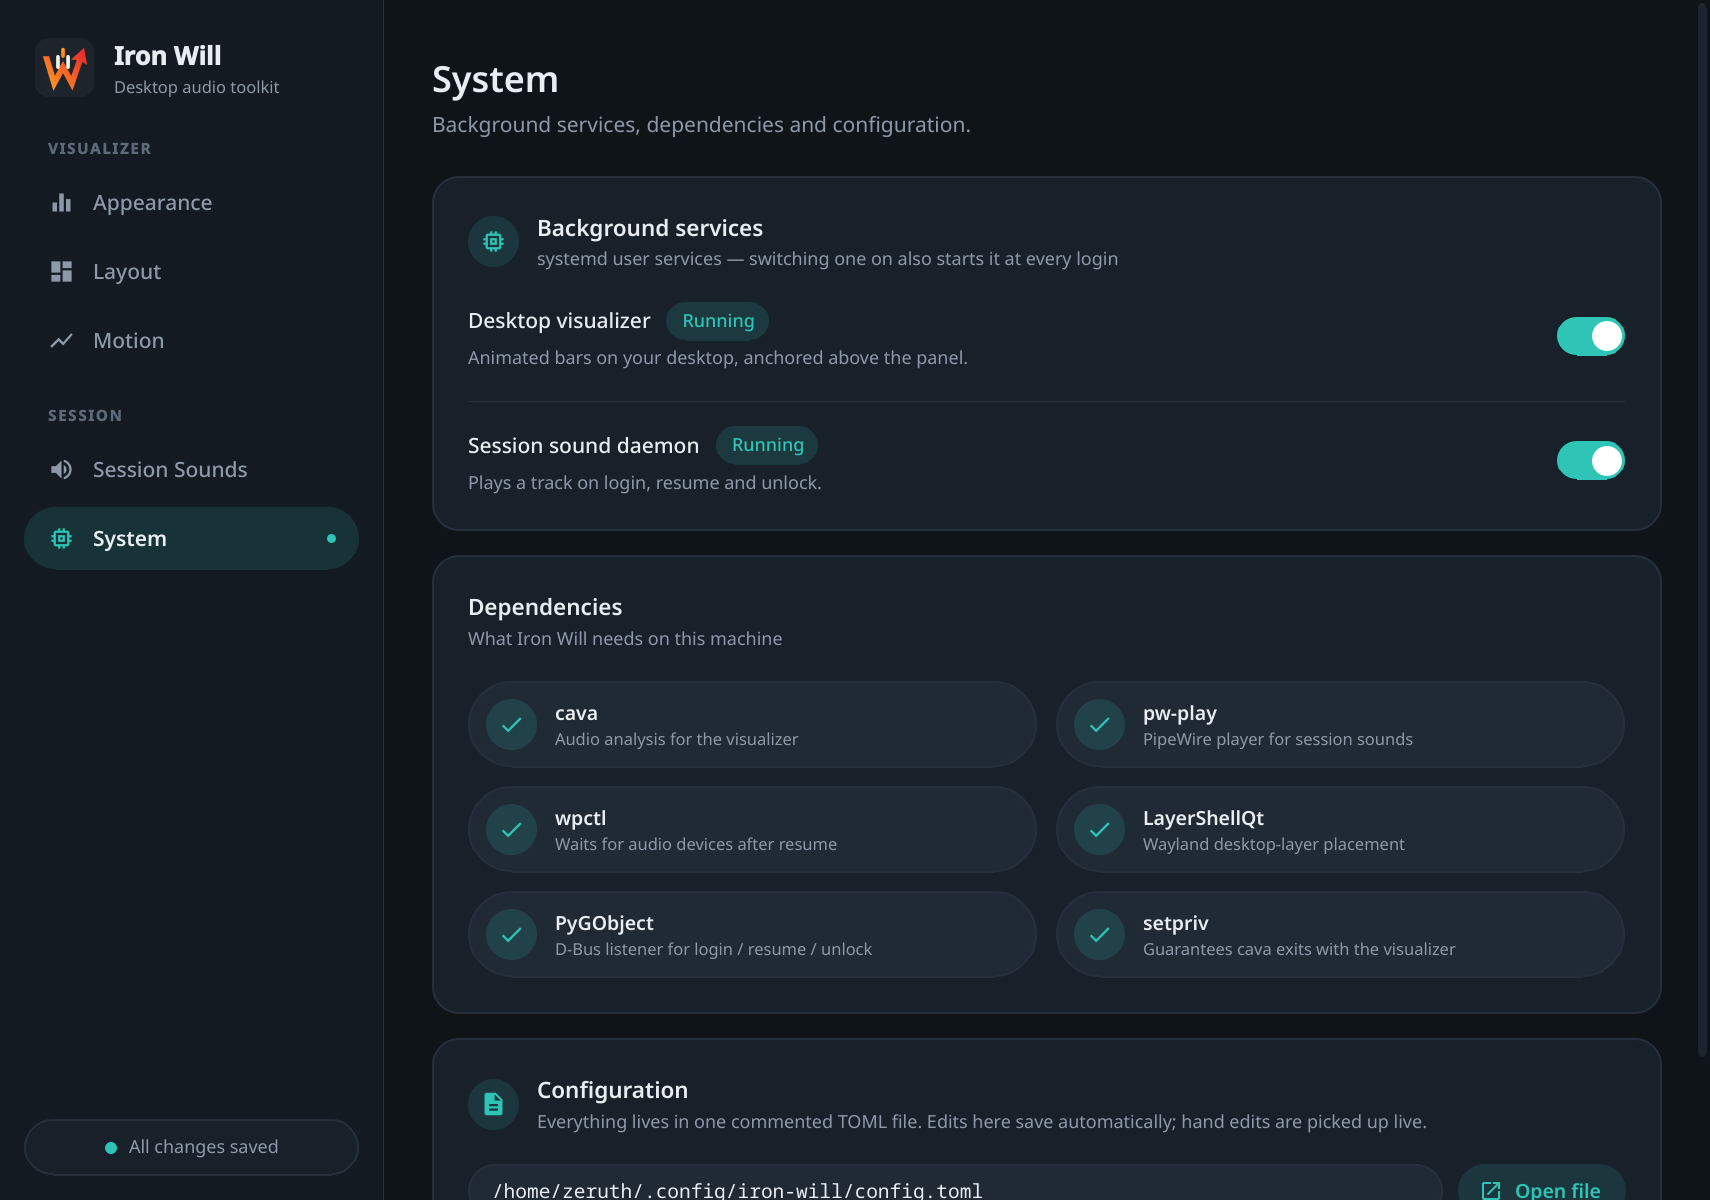
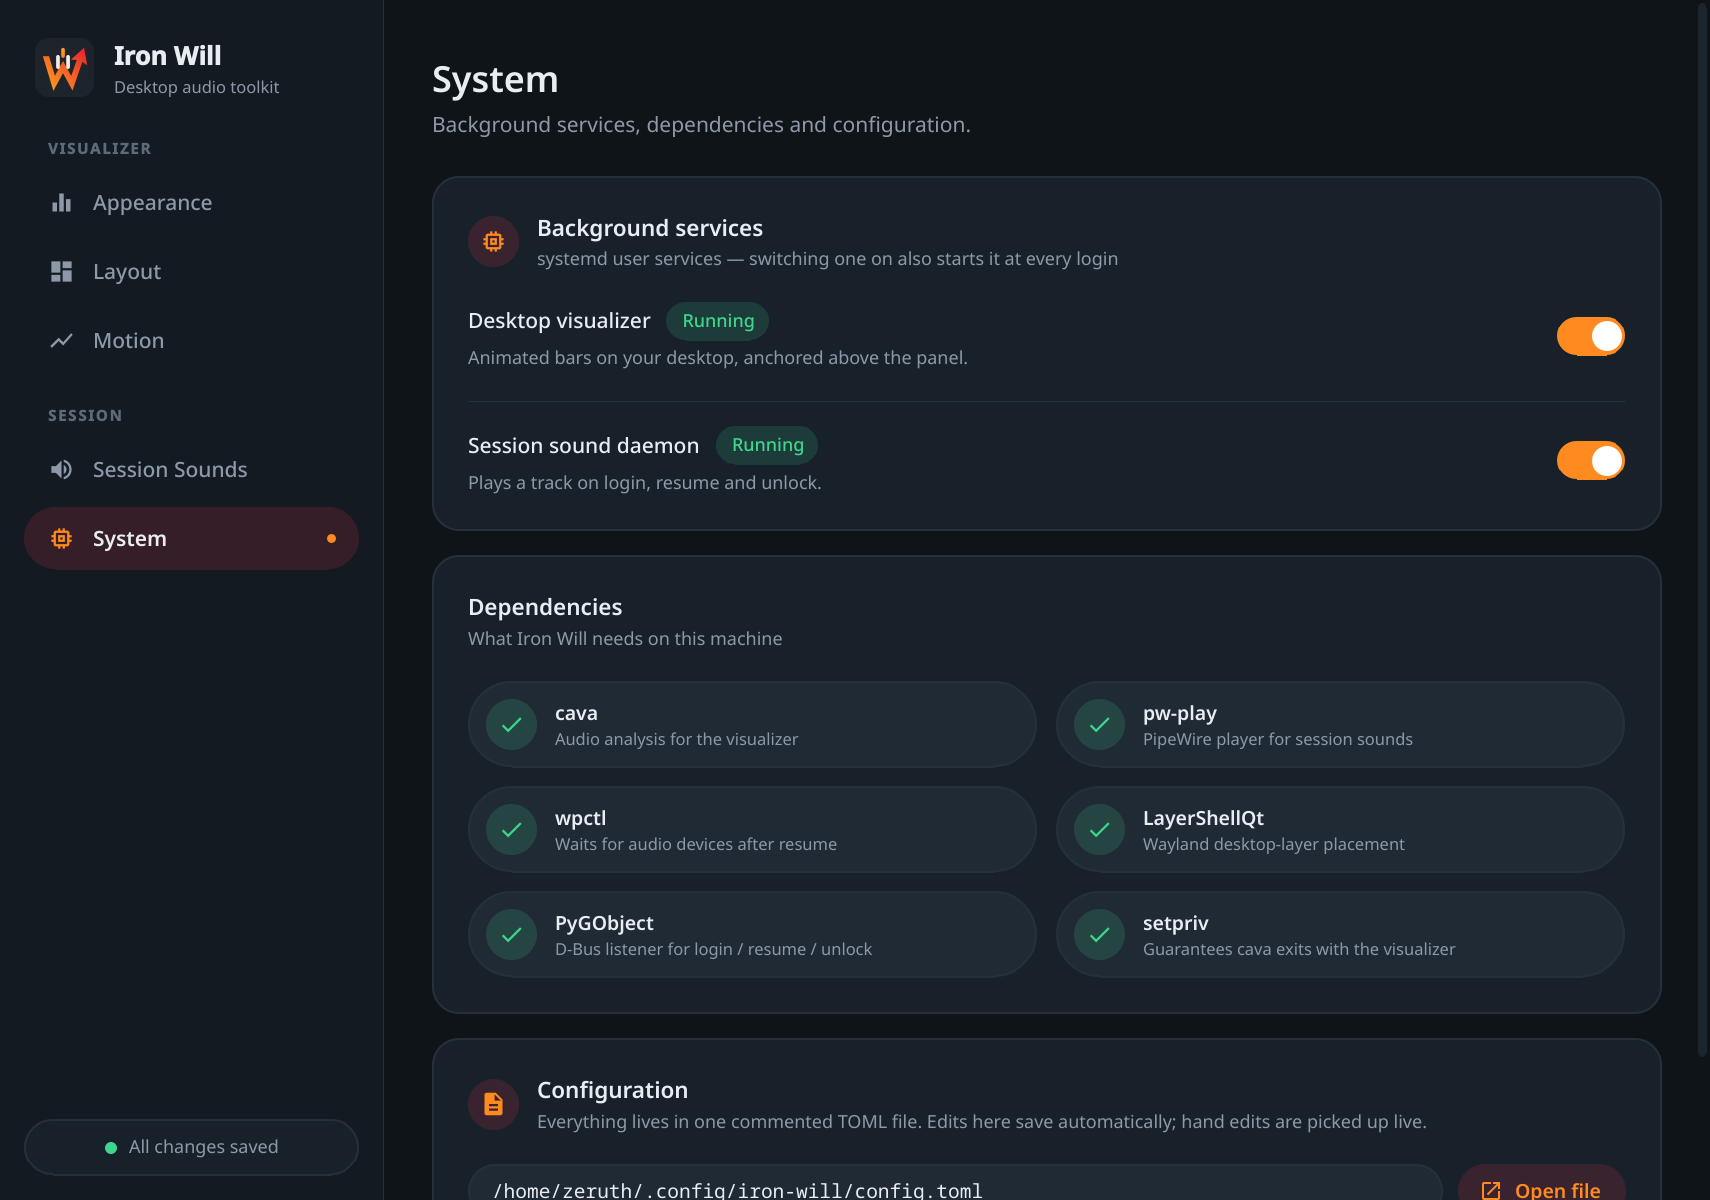
Retheme the settings app to the "Ascend" fire palette
Orange (#FF8A1F) drives the visualizer pages and crimson-rose (#FF4D63)
the session sounds, matching the new logo. Faded warm accents are
re-hued toward crimson in Theme.tint(), so pale orange over dark slate
reads as wine instead of brown. Status colors are now semantic: mint
for running/OK, crimson for failures and errors.

Also adds an "Ascend" gradient preset and fixes the Layout page's
placement preview, which collapsed to zero height because its
preferred height was bound to its own layout-assigned width. Docs
screenshots re-rendered with neutral demo track names.

diff --git a/iron_will/settings/qml/pages/LayoutPage.qml b/iron_will/settings/qml/pages/LayoutPage.qml
@@ -17,73 +17,82 @@ PageScaffold {
         subtitle: backend.screenWidth + " × " + backend.screenHeight + " primary screen · panel drawn at Plasma's default height"
         iconName: "layout"
 
-        Rectangle {
-            id: monitor
-            Layout.preferredWidth: Math.min(parent.width, 560)
-            Layout.preferredHeight: width * backend.screenHeight / backend.screenWidth
-            Layout.alignment: Qt.AlignHCenter
-            radius: Theme.radiusInner
-            color: Theme.canvas
-            border.color: Theme.border
-            clip: true
+        // The stage takes the card's full width from the layout; the monitor
+        // sizes itself from that. (Binding a Layout.preferredHeight to the
+        // item's own layout-assigned width collapses to 0 — chicken and egg.)
+        Item {
+            id: stage
+            Layout.fillWidth: true
+            Layout.preferredHeight: monitor.height
 
-            readonly property real dScale: width / backend.screenWidth
-            readonly property int dPanelH: 44
-            readonly property bool dTop: page.v("layout.anchor") === "top"
-            readonly property string dAlign: page.v("layout.align")
-            readonly property int dMx: page.v("layout.margin_x")
-            readonly property int dMy: page.v("layout.margin_y")
-            readonly property int dReserved: page.v("layout.respect_panels") && !dTop ? dPanelH : 0
-            readonly property int dVw: dAlign === "stretch" ? backend.screenWidth - 2 * dMx
-                                                            : Math.min(page.v("layout.width"), backend.screenWidth)
-            readonly property int dVh: Math.min(page.v("layout.height"), backend.screenHeight)
-            readonly property int dVx: dAlign === "left" ? dMx
-                                     : dAlign === "right" ? backend.screenWidth - dVw - dMx
-                                     : dAlign === "center" ? (backend.screenWidth - dVw) / 2 + dMx : dMx
-            readonly property int dVy: dTop ? dMy : backend.screenHeight - dReserved - dMy - dVh
+            Rectangle {
+                id: monitor
+                width: Math.min(stage.width, 560)
+                height: width * backend.screenHeight / backend.screenWidth
+                anchors.horizontalCenter: parent.horizontalCenter
+                radius: Theme.radiusInner
+                color: Theme.canvas
+                border.color: Theme.border
+                clip: true
 
-            // A couple of ghost "windows" to make the layering obvious.
-            Rectangle {
-                x: parent.width * 0.08; y: parent.height * 0.1
-                width: parent.width * 0.5; height: parent.height * 0.55
-                radius: 6; color: Theme.surfaceHi; border.color: Theme.border
-                opacity: page.v("layout.layer") === "top" ? 0.55 : 1
-                z: page.v("layout.layer") === "top" ? 1 : 3
-            }
-            Rectangle {
-                x: parent.width * 0.42; y: parent.height * 0.28
-                width: parent.width * 0.48; height: parent.height * 0.5
-                radius: 6; color: Theme.surface; border.color: Theme.border
-                opacity: page.v("layout.layer") === "top" ? 0.55 : 1
-                z: page.v("layout.layer") === "top" ? 1 : 3
-            }
-            // Panel
-            Rectangle {
-                anchors { left: parent.left; right: parent.right; bottom: parent.bottom }
-                height: monitor.dPanelH * monitor.dScale
-                color: Theme.sidebar
-                z: 4
-                Row {
-                    anchors.centerIn: parent
-                    spacing: 4
-                    Repeater { model: 5; Rectangle { width: 8; height: 8; radius: 4; color: Theme.surfaceHover } }
+                readonly property real dScale: width / backend.screenWidth
+                readonly property int dPanelH: 44
+                readonly property bool dTop: page.v("layout.anchor") === "top"
+                readonly property string dAlign: page.v("layout.align")
+                readonly property int dMx: page.v("layout.margin_x")
+                readonly property int dMy: page.v("layout.margin_y")
+                readonly property int dReserved: page.v("layout.respect_panels") && !dTop ? dPanelH : 0
+                readonly property int dVw: dAlign === "stretch" ? backend.screenWidth - 2 * dMx
+                                                                : Math.min(page.v("layout.width"), backend.screenWidth)
+                readonly property int dVh: Math.min(page.v("layout.height"), backend.screenHeight)
+                readonly property int dVx: dAlign === "left" ? dMx
+                                         : dAlign === "right" ? backend.screenWidth - dVw - dMx
+                                         : dAlign === "center" ? (backend.screenWidth - dVw) / 2 + dMx : dMx
+                readonly property int dVy: dTop ? dMy : backend.screenHeight - dReserved - dMy - dVh
+
+                // A couple of ghost "windows" to make the layering obvious.
+                Rectangle {
+                    x: parent.width * 0.08; y: parent.height * 0.1
+                    width: parent.width * 0.5; height: parent.height * 0.55
+                    radius: 6; color: Theme.surfaceHi; border.color: Theme.border
+                    opacity: page.v("layout.layer") === "top" ? 0.55 : 1
+                    z: page.v("layout.layer") === "top" ? 1 : 3
                 }
-            }
-            // The visualizer itself
-            Rectangle {
-                x: monitor.dVx * monitor.dScale
-                y: monitor.dVy * monitor.dScale
-                width: Math.max(4, monitor.dVw * monitor.dScale)
-                height: Math.max(3, monitor.dVh * monitor.dScale)
-                radius: Math.min(height / 2, 4)
-                color: Theme.tint(Theme.primary, 0.35)
-                border.color: Theme.primary
-                border.width: 1.5
-                z: 2
-                Behavior on x { NumberAnimation { duration: 160; easing.type: Easing.OutCubic } }
-                Behavior on y { NumberAnimation { duration: 160; easing.type: Easing.OutCubic } }
-                Behavior on width { NumberAnimation { duration: 160; easing.type: Easing.OutCubic } }
-                Behavior on height { NumberAnimation { duration: 160; easing.type: Easing.OutCubic } }
+                Rectangle {
+                    x: parent.width * 0.42; y: parent.height * 0.28
+                    width: parent.width * 0.48; height: parent.height * 0.5
+                    radius: 6; color: Theme.surface; border.color: Theme.border
+                    opacity: page.v("layout.layer") === "top" ? 0.55 : 1
+                    z: page.v("layout.layer") === "top" ? 1 : 3
+                }
+                // Panel
+                Rectangle {
+                    anchors { left: parent.left; right: parent.right; bottom: parent.bottom }
+                    height: monitor.dPanelH * monitor.dScale
+                    color: Theme.sidebar
+                    z: 4
+                    Row {
+                        anchors.centerIn: parent
+                        spacing: 4
+                        Repeater { model: 5; Rectangle { width: 8; height: 8; radius: 4; color: Theme.surfaceHover } }
+                    }
+                }
+                // The visualizer itself
+                Rectangle {
+                    x: monitor.dVx * monitor.dScale
+                    y: monitor.dVy * monitor.dScale
+                    width: Math.max(4, monitor.dVw * monitor.dScale)
+                    height: Math.max(3, monitor.dVh * monitor.dScale)
+                    radius: Math.min(height / 2, 4)
+                    color: Theme.tint(Theme.primary, 0.35)
+                    border.color: Theme.primary
+                    border.width: 1.5
+                    z: 2
+                    Behavior on x { NumberAnimation { duration: 160; easing.type: Easing.OutCubic } }
+                    Behavior on y { NumberAnimation { duration: 160; easing.type: Easing.OutCubic } }
+                    Behavior on width { NumberAnimation { duration: 160; easing.type: Easing.OutCubic } }
+                    Behavior on height { NumberAnimation { duration: 160; easing.type: Easing.OutCubic } }
+                }
             }
         }
     }

diff --git a/iron_will/settings/qml/components/Theme.qml b/iron_will/settings/qml/components/Theme.qml
@@ -2,9 +2,10 @@ pragma Singleton
 import QtQuick
 
 // Design tokens. Flat surfaces, no gradients in the chrome.
-// Palette concept: a dark slate base with two complementary accents —
-// teal (≈174°) for the visualizer pages and coral (≈6°) for session sounds —
-// so each half of the app has its own identity while sharing one system.
+// Palette concept: the logo's "fire" on a blue-slate base. Blue is orange's
+// complement, so the warm accents pop instead of sitting flat. Orange (≈28°)
+// marks the visualizer pages, crimson-rose (≈352°) marks session sounds;
+// together they're the two ends of the logo's gradient.
 QtObject {
     // Surfaces (darkest → lightest)
     readonly property color bg:           "#0F1419"
@@ -21,9 +22,15 @@ QtObject {
     readonly property color textFaint: "#5D6A79"
     readonly property color ink:       "#0B1418"      // text on accent fills
 
-    // Complementary accents
-    readonly property color primary:   "#2EC4B6"      // teal
-    readonly property color secondary: "#FF6B5B"      // coral
+    // Accents (the logo's gradient ends)
+    readonly property color primary:   "#FF8A1F"      // orange
+    readonly property color secondary: "#FF4D63"      // crimson-rose
+    // Status: semantic, independent of the brand accents, so "installed" and
+    // "missing" never depend on telling orange from crimson.
+    readonly property color success:   "#3DD68C"      // mint: ok / running / saved
+    readonly property color danger:    "#FF4D63"      // missing / failed / unsaved / error
+    // What faded warm accents turn into (see tint())
+    readonly property color warmTint:  Qt.hsla(352 / 360, 1.0, 0.60, 1.0)
 
     // Shape & rhythm
     readonly property int radiusCard: 18
@@ -38,7 +45,18 @@ QtObject {
     readonly property int fontSmall: 12
     readonly property int fontCaption: 11
 
-    function tint(c, alpha) { return Qt.rgba(c.r, c.g, c.b, alpha) }
+    // A faded accent for fills: selected nav items, chips, tonal buttons,
+    // icon circles. Orange faded onto dark slate is *brown* (#FF8A1F at 15%
+    // over the surface is #3B3128), because dark orange is what brown is.
+    // So warm orange/amber accents fade through crimson instead, which
+    // darkens into a warm wine tone. Bright uses (text, icons, solid buttons,
+    // sliders, switches) keep the true orange.
+    function tint(c, alpha) {
+        var hue = c.hslHue * 360
+        if (c.hslSaturation > 0.3 && hue >= 12 && hue <= 60)
+            return Qt.rgba(warmTint.r, warmTint.g, warmTint.b, alpha)
+        return Qt.rgba(c.r, c.g, c.b, alpha)
+    }
     function hex(c) {
         function h(x) { var s = Math.round(x * 255).toString(16); return s.length < 2 ? "0" + s : s }
         return ("#" + h(c.r) + h(c.g) + h(c.b)).toUpperCase()

diff --git a/iron_will/settings/qml/pages/SystemPage.qml b/iron_will/settings/qml/pages/SystemPage.qml
@@ -36,8 +36,8 @@ PageScaffold {
                             Chip {
                                 filled: true
                                 accent: !modelData.installed ? Theme.textMuted
-                                      : modelData.active ? Theme.primary
-                                      : modelData.state === "failed" ? Theme.secondary : Theme.textMuted
+                                      : modelData.active ? Theme.success
+                                      : modelData.state === "failed" ? Theme.danger : Theme.textMuted
                                 text: !modelData.installed ? "Not installed"
                                     : modelData.active ? "Running"
                                     : modelData.state === "failed" ? "Failed" : "Stopped"
@@ -86,11 +86,11 @@ PageScaffold {
                         spacing: 12
                         Rectangle {
                             implicitWidth: 34; implicitHeight: 34; radius: 17
-                            color: Theme.tint(modelData.ok ? Theme.primary : Theme.secondary, 0.16)
+                            color: Theme.tint(modelData.ok ? Theme.success : Theme.danger, 0.16)
                             Icon {
                                 anchors.centerIn: parent
                                 name: modelData.ok ? "check" : "close"; size: 18
-                                color: modelData.ok ? Theme.primary : Theme.secondary
+                                color: modelData.ok ? Theme.success : Theme.danger
                             }
                         }
                         ColumnLayout {
@@ -99,7 +99,7 @@ PageScaffold {
                             Text { text: modelData.name; color: Theme.text; font.pixelSize: 13; font.weight: Font.DemiBold }
                             Text {
                                 text: modelData.ok ? modelData.detail : "Missing — install " + modelData.package
-                                color: modelData.ok ? Theme.textMuted : Theme.secondary
+                                color: modelData.ok ? Theme.textMuted : Theme.danger
                                 font.pixelSize: Theme.fontCaption
                                 elide: Text.ElideRight
                                 Layout.fillWidth: true

diff --git a/iron_will/settings/qml/components/ColorStops.qml b/iron_will/settings/qml/components/ColorStops.qml
@@ -13,6 +13,7 @@ ColumnLayout {
     readonly property int maxStops: 6
 
     readonly property var presets: [
+        { name: "Ascend",     colors: ["#FF9A1F", "#E8262E"] },   // the logo's fire
         { name: "Aurora",     colors: ["#2EC4B6", "#3A86FF", "#8338EC"] },
         { name: "Reef",       colors: ["#2EC4B6", "#FF6B5B"] },
         { name: "Ember",      colors: ["#FFBE0B", "#FB5607", "#FF006E"] },
@@ -109,7 +110,7 @@ ColumnLayout {
             text: "Add stop"
             onClicked: {
                 var c = editor.colors.slice()
-                c.push(c.length ? c[c.length - 1] : "#2EC4B6")
+                c.push(c.length ? c[c.length - 1] : "#FF9A1F")
                 editor.commit(c)
                 dialog.editIndex = c.length - 1
                 dialog.selectedColor = c[c.length - 1]

diff --git a/iron_will/settings/qml/Main.qml b/iron_will/settings/qml/Main.qml
@@ -100,7 +100,7 @@ ApplicationWindow {
                         Rectangle {
                             anchors.verticalCenter: parent.verticalCenter
                             width: 8; height: 8; radius: 4
-                            color: backend.dirty ? Theme.secondary : Theme.primary
+                            color: backend.dirty ? Theme.danger : Theme.success
                             Behavior on color { ColorAnimation { duration: 200 } }
                         }
                         Text {

diff --git a/iron_will/settings/qml/components/Toast.qml b/iron_will/settings/qml/components/Toast.qml
@@ -5,7 +5,7 @@ Rectangle {
     id: toast
     property string message
     property string kind: "info"     // "info" | "error"
-    readonly property color accent: kind === "error" ? Theme.secondary : Theme.primary
+    readonly property color accent: kind === "error" ? Theme.danger : Theme.primary
 
     function show(msg, k) { message = msg; kind = k || "info"; shown = true; hideTimer.restart() }
     property bool shown: false

diff --git a/README.md b/README.md
@@ -82,7 +82,7 @@ Without a lock screen, the resume sound plays after *Resume delay* as usual. A p
 
 ## Settings app
 
-Flat, pill-shaped controls in a dark slate theme with two complementary accents: teal for the visualizer, coral for session sounds. The live preview uses the same renderer as the desktop.
+Flat, pill-shaped controls in a dark slate theme with the logo's fire palette: orange for the visualizer, crimson-rose for session sounds, mint for "all good". Soft tints lean toward wine instead of fading orange into brown. The live preview uses the same renderer as the desktop.
 
 <table>
   <tr>
